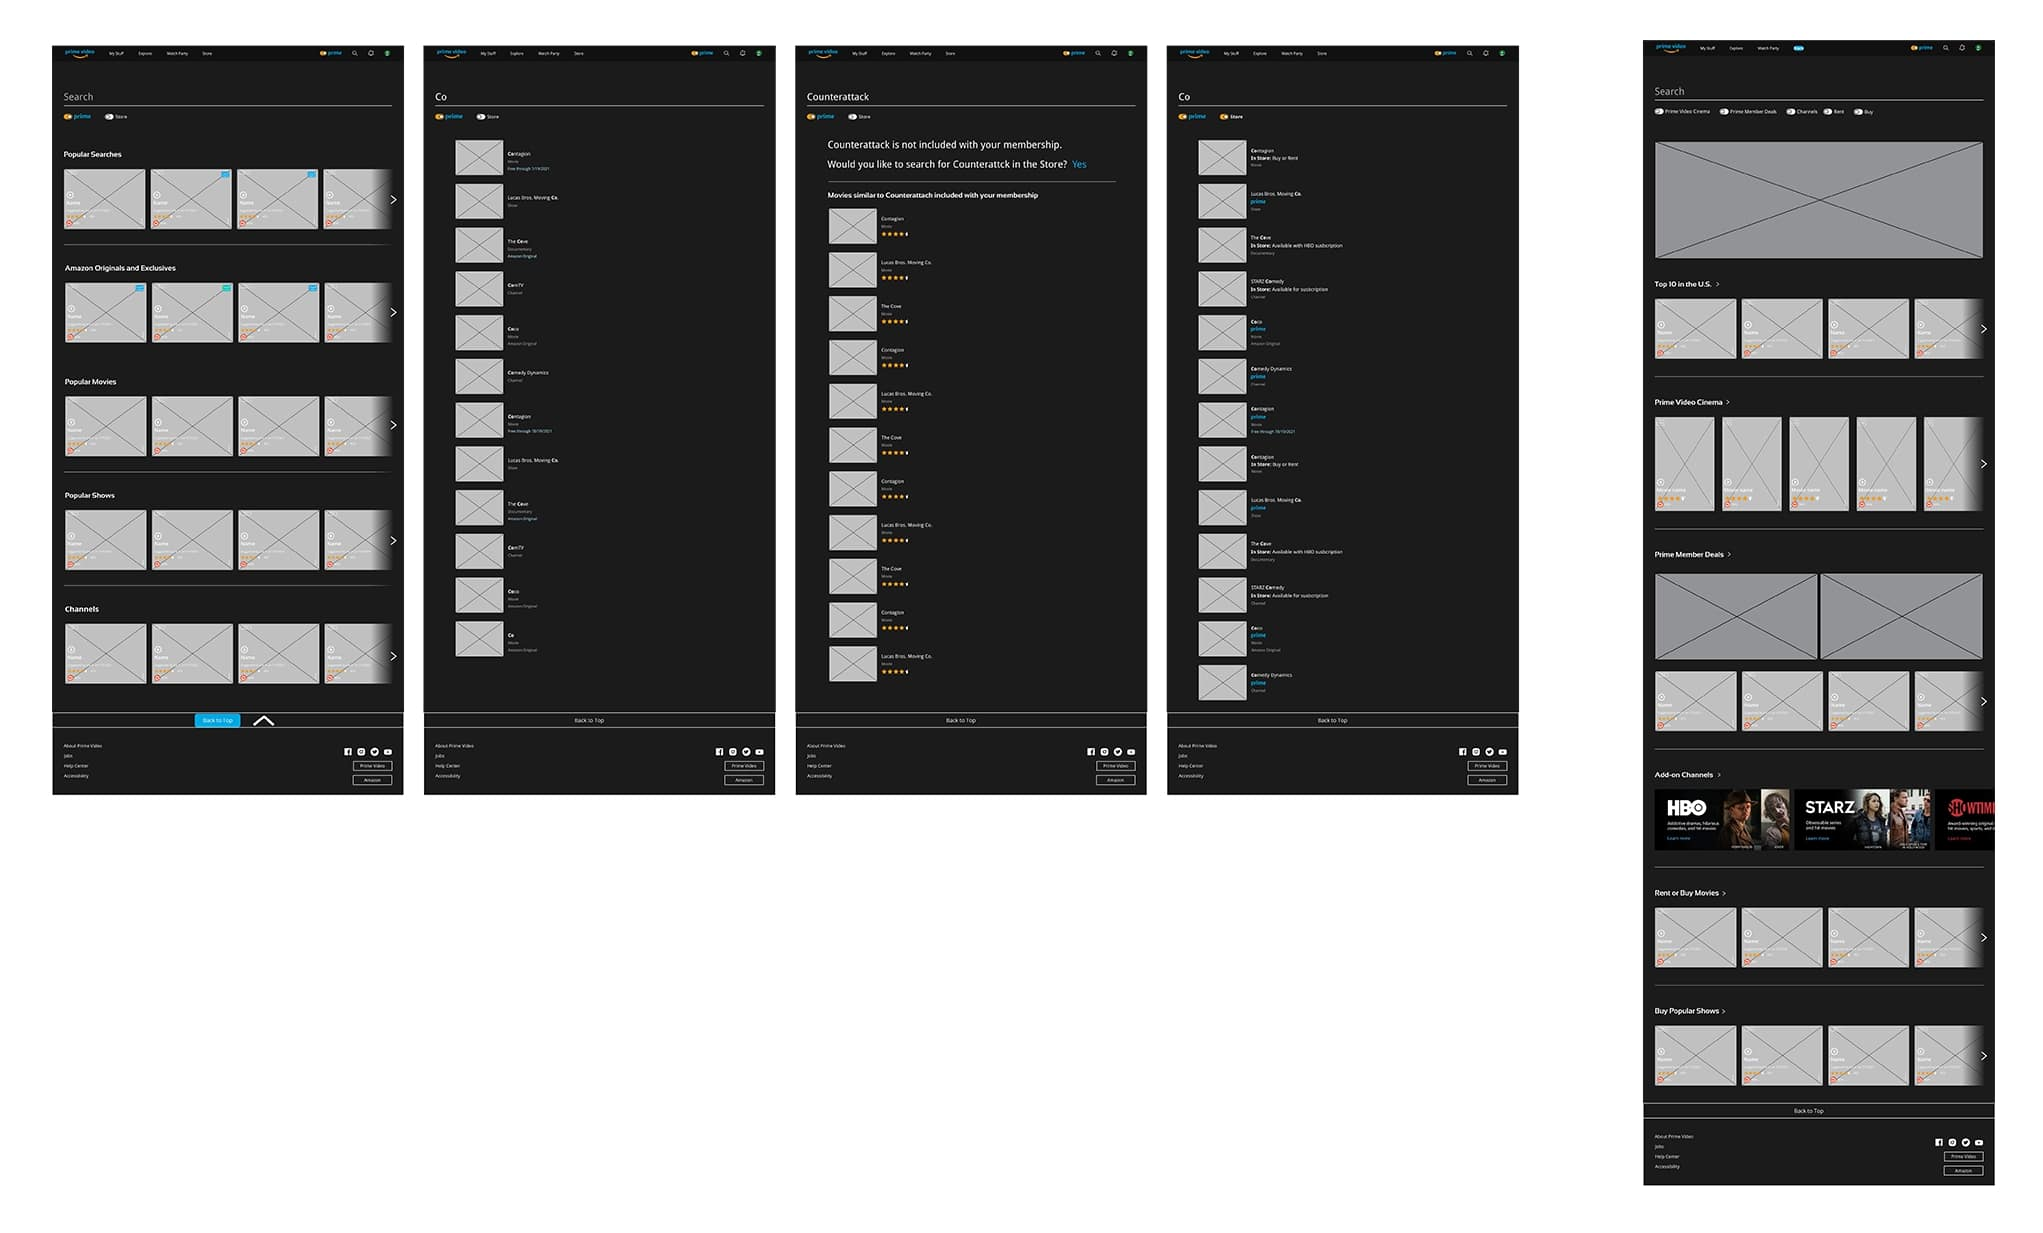
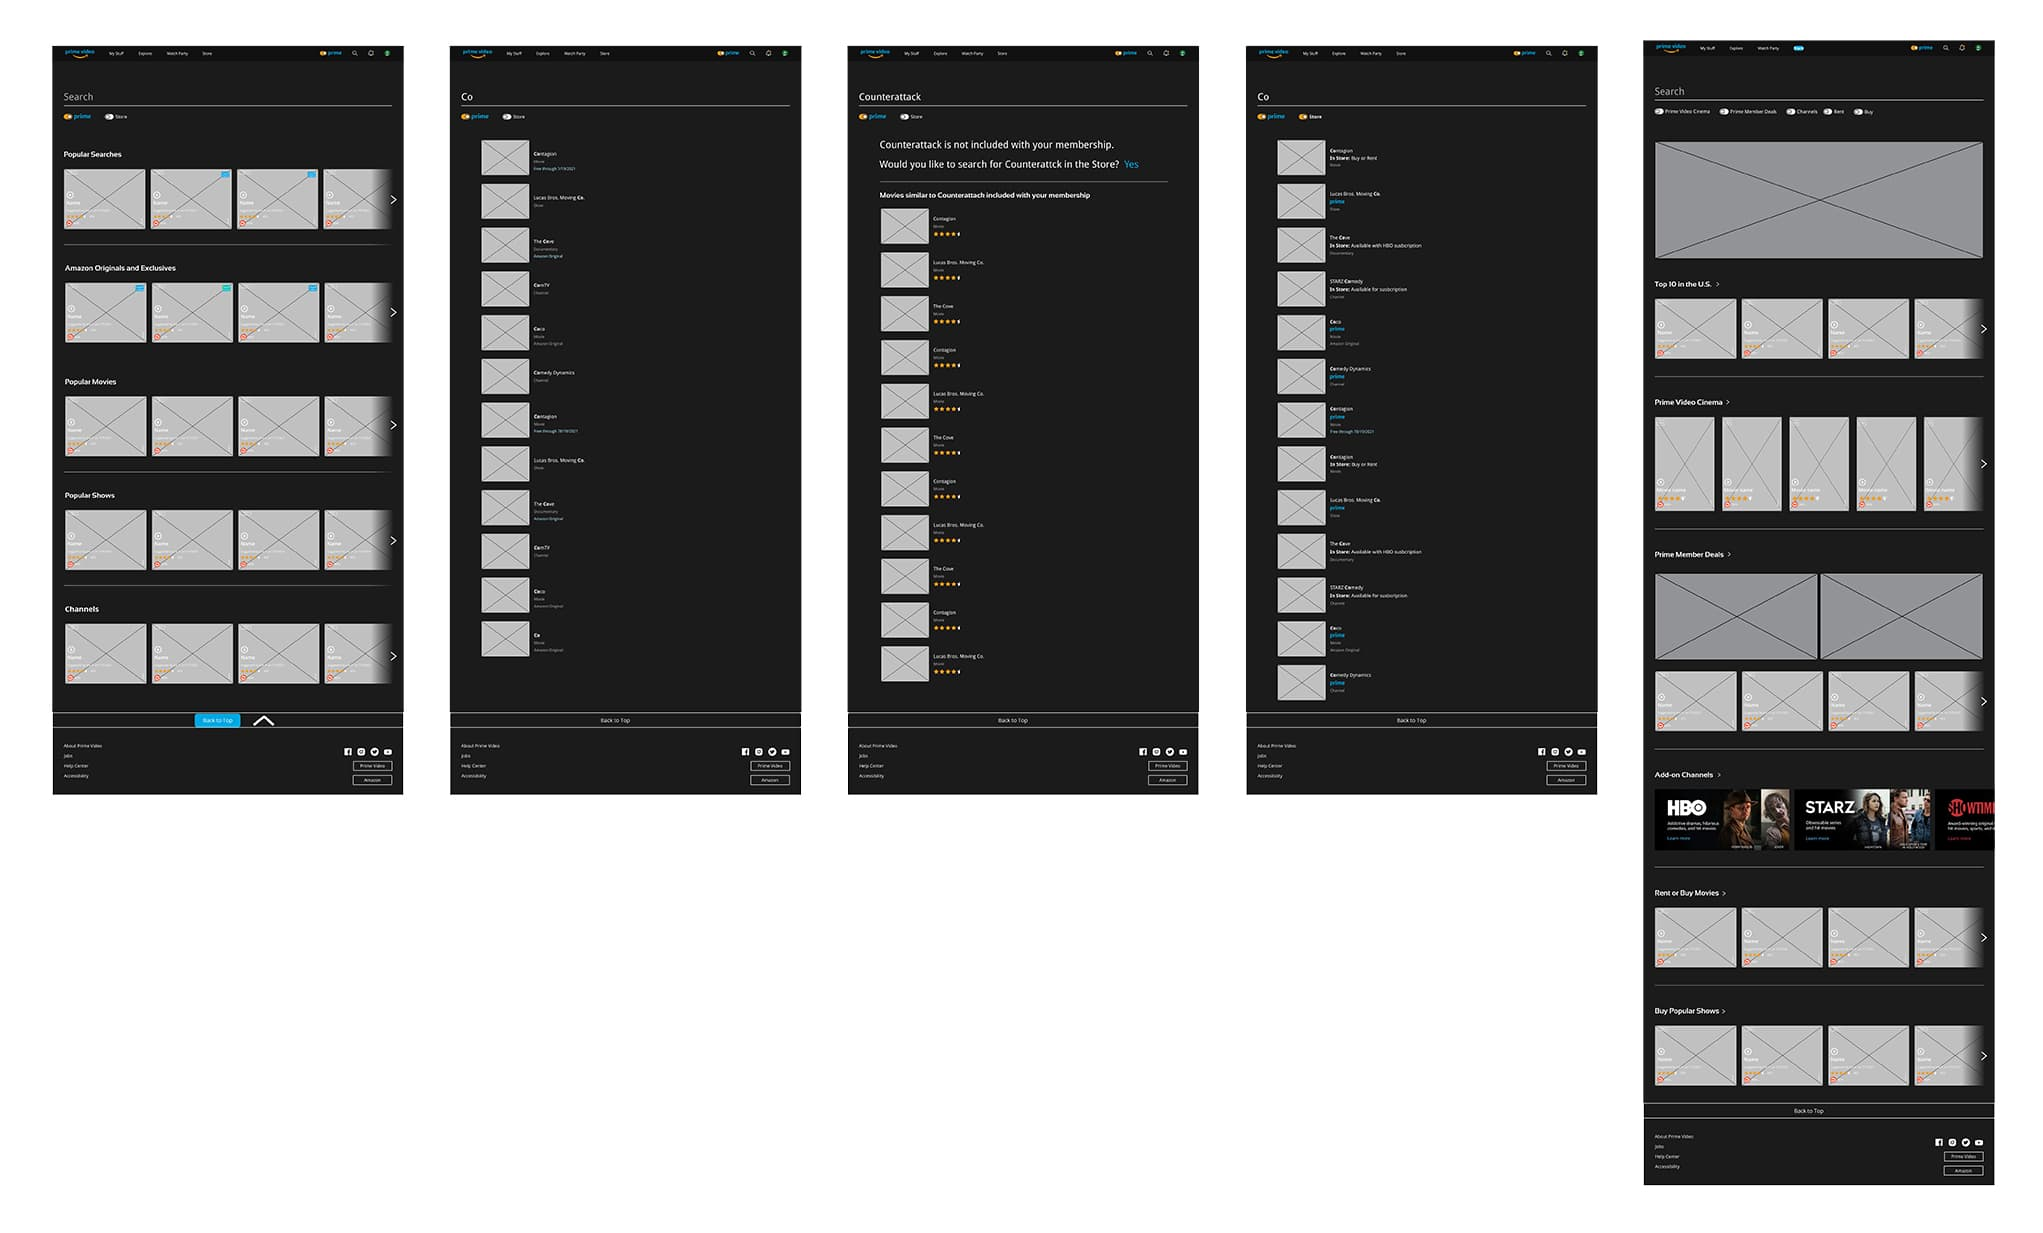
Redid Img transparencies for APV

Changed region(s): [[0.3392, 0.0308, 0.6784, 0.6472], [0.185, 0.0308, 0.2775, 0.6472], [0.7093, 0.0308, 0.8018, 0.6472]]

diff --git a/case-studies/amazon/index.html b/case-studies/amazon/index.html
@@ -614,7 +614,7 @@
               We sketched a homepage to ideate this page's information architecture and rhythm. Likewise, this sketch above served to conceive iconography and interactions
             </div>
             <div class="row">
-              <picture> <img class="img-fluid modal-img" src = "img/searchstore.png" loading=lazy> </picture>
+              <picture> <img class="img-fluid modal-img" src = "img/searchstore.jpg" loading=lazy> </picture>
             </div>
             <div class="row mb-2">
               <div class= "tm-content-subheading">
@@ -873,7 +873,7 @@
                     <strong>High Fidelity Wireframes</strong> 
                   </div>
             <div class="row">
-              <picture> <img class="img-fluid modal-img" src = "img/hifi.png" loading=lazy> </picture>
+              <picture> <img class="img-fluid modal-img" src = "img/hifi.jpg" loading=lazy> </picture>
             </div>
             <div class="row mb-4">
               <div class='mx-0 my-2 px-0 col-12'>
